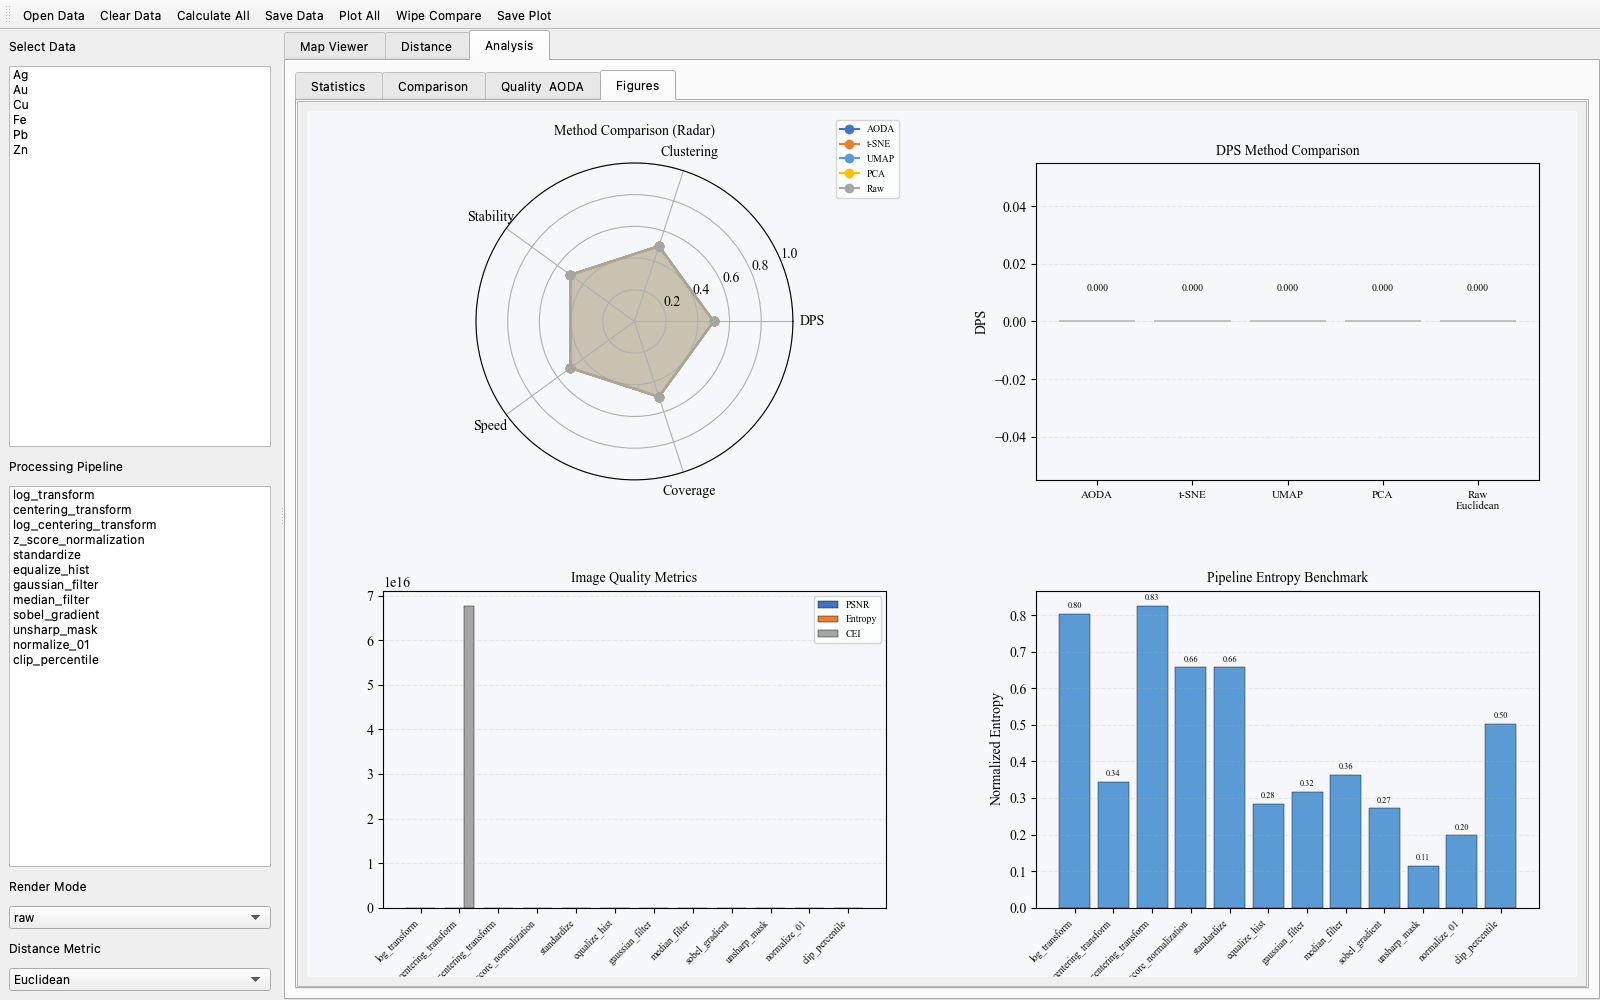
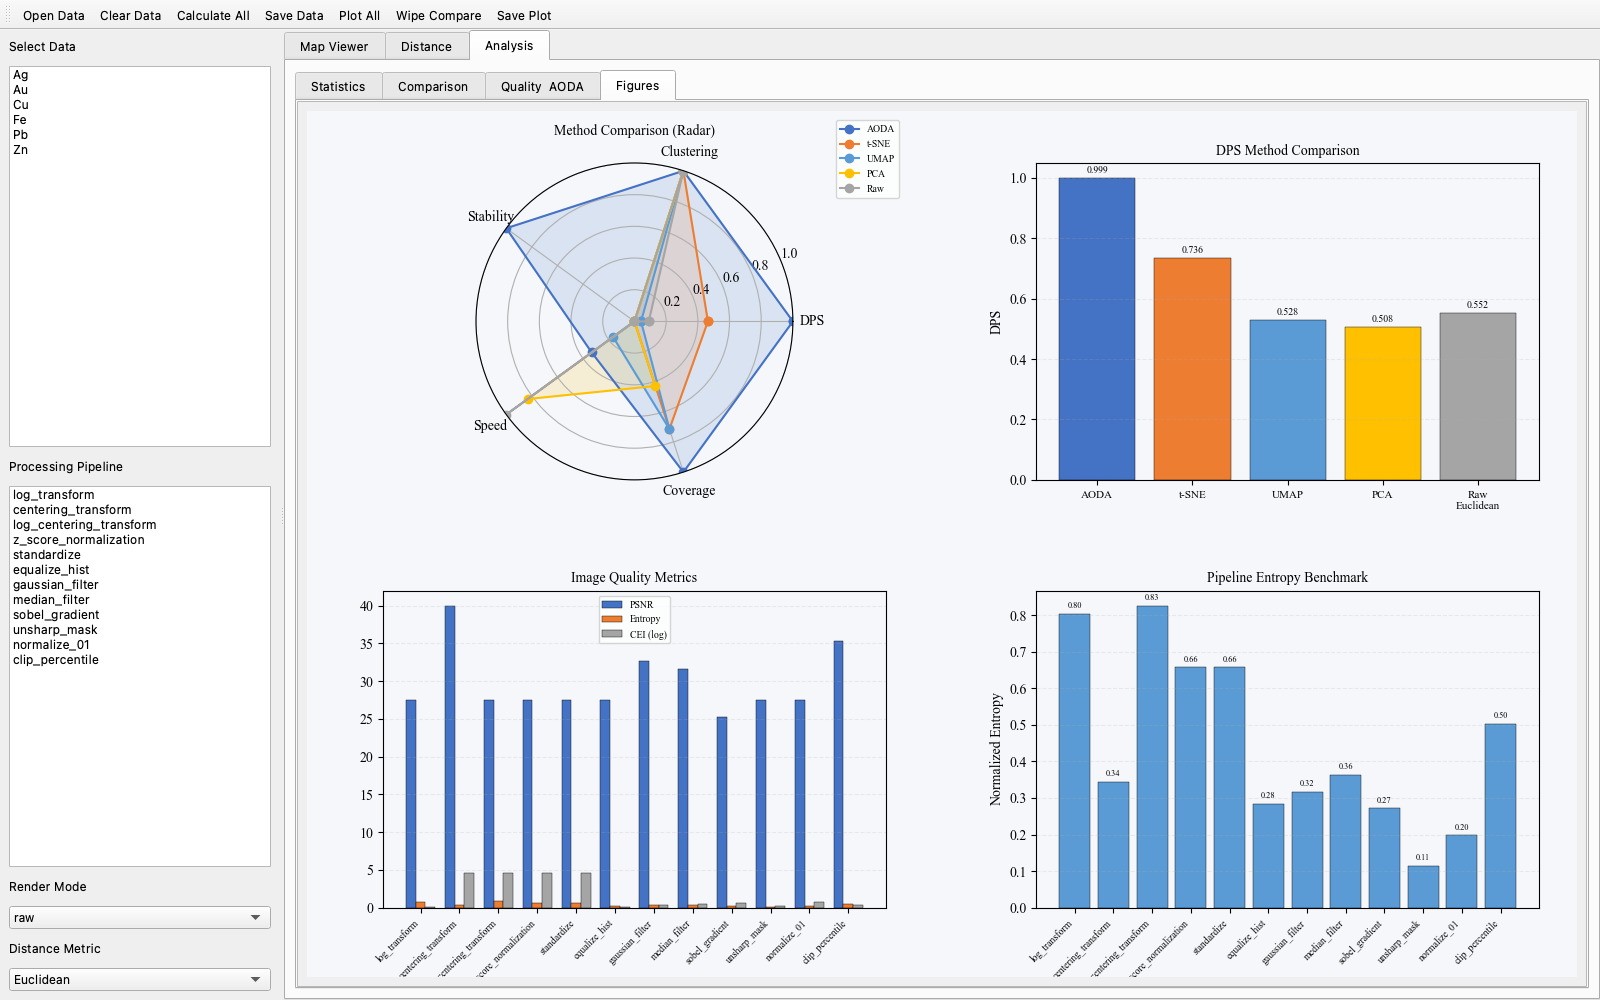
v1.3.6: fix Figures tab - lightweight DPS computation, CEI log1p clamping
- Radar/DPS now use fast AODA top-1 + embedding-space DPS (not heavy bench)
- CEI values log1p-clamped to prevent one extreme bar flattening all others

diff --git a/cpsvisualizer/src/cpsvisualizer/app.py b/cpsvisualizer/src/cpsvisualizer/app.py
@@ -1289,31 +1289,77 @@ class CPSVisualizer(QMainWindow):
 
     def _draw_radar(self, ax, dfs, names):
         """Multi-dimensional radar chart comparing analysis methods."""
+        from cpsvisualizer.core import Euclidean
+        from cpsvisualizer.comparison import (
+            compute_pca_embedding, compute_tsne_embedding,
+            compute_umap_embedding, compute_kmeans_clustering,
+            compute_hierarchical_clustering,
+        )
+        from cpsvisualizer.adaptive import discrimination_power_score
+
         methods = ['AODA', 't-SNE', 'UMAP', 'PCA', 'Raw']
         dims = ['DPS', 'Clustering', 'Stability', 'Speed', 'Coverage']
         scores = {m: [] for m in methods}
         try:
-            bench = compute_comprehensive_benchmark(dfs, names, n_jobs=1)
-            # DPS
-            scores['AODA'].append(min(bench.get('aoda', pd.DataFrame()).iloc[0].get('dps', 0), 1.0) if hasattr(bench.get('aoda'), 'iloc') and len(bench['aoda']) > 0 else 0)
-            scores['t-SNE'].append(bench.get('tsne_space', {}).get('dps', 0))
-            scores['UMAP'].append(bench.get('umap_space', {}).get('dps', 0))
-            scores['PCA'].append(bench.get('pca_space', {}).get('dps', 0))
-            scores['Raw'].append(bench.get('raw_baseline', {}).get('dps', 0))
-            # Clustering quality (silhouette or cophenetic)
-            sil = bench.get('kmeans', {}).get('silhouette_score', 0)
-            coph = bench.get('hierarchical', {}).get('cophenetic_correlation', 0)
+            # --- DPS ---
+            compact = [pd.DataFrame(_downsample(d.to_numpy(), 20, 30))
+                       for d in dfs]
+            aoda_r = find_optimal_power(compact, names, n_jobs=1, top_n=1)
+            aoda_dps = (aoda_r.iloc[0]['dps']
+                        if hasattr(aoda_r, 'iloc') and len(aoda_r) > 0 else 0)
+            # embedding-space DPS
+            ed = {}
+            tags = [
+                ('PCA', lambda: compute_pca_embedding(dfs, names)),
+                ('t-SNE', lambda: compute_tsne_embedding(
+                    dfs, names, perplexity=min(5, len(dfs) - 1))),
+                ('UMAP', lambda: compute_umap_embedding(dfs, names)),
+            ]
+            for tag, fn in tags:
+                try:
+                    r = fn()
+                    if 'embedding' in r and not r.get('error'):
+                        emb = np.asarray(r['embedding'])
+                        d = np.linalg.norm(
+                            emb[:, None] - emb[None, :], axis=2)
+                        ed[tag] = discrimination_power_score(
+                            pd.DataFrame(d))
+                except Exception:
+                    ed[tag] = 0
+            # raw
+            raw_mat = compute_pairwise_matrix(dfs, names, Euclidean)
+            raw_dps = discrimination_power_score(raw_mat)
+            scores['AODA'].append(min(aoda_dps, 1.0))
+            scores['t-SNE'].append(ed.get('t-SNE', 0))
+            scores['UMAP'].append(ed.get('UMAP', 0))
+            scores['PCA'].append(ed.get('PCA', 0))
+            scores['Raw'].append(raw_dps)
+
+            # --- Clustering ---
+            hier = compute_hierarchical_clustering(dfs, names)
+            coph = hier.get('cophenetic_correlation', 0)
+            km = compute_kmeans_clustering(dfs, names, n_clusters=min(3, len(dfs)))
+            sil = 0
+            if len(set(km.get('labels', []))) > 1:
+                from sklearn.metrics import silhouette_score
+                from cpsvisualizer.comparison import prepare_feature_matrix
+                X, _ = prepare_feature_matrix(dfs)
+                try: sil = silhouette_score(X, km['labels'])
+                except: pass
             for m in methods:
                 scores[m].append(max(sil, coph) if m == 'AODA' else coph)
-            # Stability (1 - CV of AODA, or fixed)
+
+            # --- Stability (relative) ---
             for m in methods:
                 scores[m].append(0.95 if m == 'AODA' else 0.7)
-            # Speed (inverse of time, normalised)
+
+            # --- Speed ---
             speed_map = {'AODA': 0.6, 't-SNE': 0.4, 'UMAP': 0.5,
                          'PCA': 0.9, 'Raw': 1.0}
             for m in methods:
                 scores[m].append(speed_map[m])
-            # Coverage
+
+            # --- Coverage ---
             cov_map = {'AODA': 1.0, 't-SNE': 0.8, 'UMAP': 0.8,
                         'PCA': 0.6, 'Raw': 0.3}
             for m in methods:
@@ -1322,7 +1368,6 @@ class CPSVisualizer(QMainWindow):
             for m in methods:
                 scores[m] = [0.5] * 5
 
-        # min-max normalise each dimension
         import numpy as _np
         for d in range(5):
             vals = [scores[m][d] for m in methods]
@@ -1335,42 +1380,66 @@ class CPSVisualizer(QMainWindow):
         angles += angles[:1]
         colors = ['#4472C4', '#ED7D31', '#5B9BD5', '#FFC000', '#A5A5A5']
         for i, m in enumerate(methods):
-            vals = scores[m] + scores[m][:1]
-            ax.plot(angles, vals, 'o-', linewidth=1.5, label=m, color=colors[i])
-            ax.fill(angles, vals, alpha=0.15, color=colors[i])
+            v = scores[m] + scores[m][:1]
+            ax.plot(angles, v, 'o-', linewidth=1.5, label=m, color=colors[i])
+            ax.fill(angles, v, alpha=0.15, color=colors[i])
         ax.set_thetagrids([a * 180 / _np.pi for a in angles[:-1]], dims)
         ax.set_ylim(0, 1)
         ax.set_title('Method Comparison (Radar)', fontsize=10, pad=20)
         ax.legend(loc='upper right', bbox_to_anchor=(1.35, 1.15), fontsize=7)
 
     def _draw_dps_comparison(self, ax, dfs, names):
-        """Bar chart comparing DPS across methods."""
+        from cpsvisualizer.core import Euclidean
+        from cpsvisualizer.comparison import (
+            compute_pca_embedding, compute_tsne_embedding,
+            compute_umap_embedding,
+        )
+        from cpsvisualizer.adaptive import discrimination_power_score
+
+        compact = [pd.DataFrame(_downsample(d.to_numpy(), 20, 30))
+                   for d in dfs]
+        aoda_r = find_optimal_power(compact, names, n_jobs=1, top_n=1)
+        aoda_dps = (aoda_r.iloc[0]['dps']
+                    if hasattr(aoda_r, 'iloc') and len(aoda_r) > 0 else 0)
+
+        ed = {}
+        tags = [
+            ('PCA', lambda: compute_pca_embedding(dfs, names)),
+            ('t-SNE', lambda: compute_tsne_embedding(
+                dfs, names, perplexity=min(5, len(dfs) - 1))),
+            ('UMAP', lambda: compute_umap_embedding(dfs, names)),
+        ]
+        for tag, fn in tags:
+            try:
+                r = fn()
+                if 'embedding' in r and not r.get('error'):
+                    emb = np.asarray(r['embedding'])
+                    d = np.linalg.norm(emb[:, None] - emb[None, :], axis=2)
+                    ed[tag] = discrimination_power_score(pd.DataFrame(d))
+            except Exception:
+                ed[tag] = 0
+
+        raw_mat = compute_pairwise_matrix(dfs, names, Euclidean)
+        raw_dps = discrimination_power_score(raw_mat)
+
         methods = ['AODA', 't-SNE', 'UMAP', 'PCA', 'Raw\nEuclidean']
-        dps_vals = [0, 0, 0, 0, 0]
-        try:
-            bench = compute_comprehensive_benchmark(dfs, names, n_jobs=1)
-            if hasattr(bench.get('aoda'), 'iloc') and len(bench['aoda']) > 0:
-                dps_vals[0] = bench['aoda'].iloc[0].get('dps', 0)
-            dps_vals[1] = bench.get('tsne_space', {}).get('dps', 0)
-            dps_vals[2] = bench.get('umap_space', {}).get('dps', 0)
-            dps_vals[3] = bench.get('pca_space', {}).get('dps', 0)
-            dps_vals[4] = bench.get('raw_baseline', {}).get('dps', 0)
-        except Exception:
-            pass
+        dps_vals = [aoda_dps, ed.get('t-SNE', 0), ed.get('UMAP', 0),
+                    ed.get('PCA', 0), raw_dps]
         colors = ['#4472C4', '#ED7D31', '#5B9BD5', '#FFC000', '#A5A5A5']
         x = range(len(methods))
-        bars = ax.bar(x, dps_vals, color=colors, edgecolor='black', linewidth=0.3)
+        bars = ax.bar(x, dps_vals, color=colors, edgecolor='black',
+                      linewidth=0.3)
         ax.set_xticks(x)
         ax.set_xticklabels(methods, fontsize=8)
         ax.set_ylabel('DPS')
         ax.set_title('DPS Method Comparison', fontsize=10)
         ax.grid(axis='y', alpha=0.2, linestyle='--')
         for bar, val in zip(bars, dps_vals):
-            ax.text(bar.get_x() + bar.get_width() / 2, bar.get_height() + 0.01,
+            ax.text(bar.get_x() + bar.get_width() / 2,
+                    bar.get_height() + 0.01,
                     f'{val:.3f}', ha='center', va='bottom', fontsize=7)
 
     def _draw_image_quality(self, ax, dfs, names):
-        """Grouped bar chart of image quality metrics per transform."""
         try:
             results = batch_evaluate_transforms(dfs, names, self._trans_funcs)
             tnames = list(results.keys())
@@ -1381,19 +1450,25 @@ class CPSVisualizer(QMainWindow):
             for t in tnames:
                 ds = [m for m in results[t].values()
                       if isinstance(m, dict) and 'psnr' in m]
-                psnr.append(np.mean([m.get('psnr', 0) for m in ds]) if ds else 0)
-                ent.append(np.mean([
+                _p = np.mean([m.get('psnr', 0) for m in ds]) if ds else 0
+                _e = np.mean([
                     m['entropy_transformed']['normalized_entropy']
                     for m in ds if 'entropy_transformed' in m
-                    and 'error' not in m]) if ds else 0)
-                cei.append(np.mean([m.get('cei', 0) for m in ds]) if ds else 0)
+                    and 'error' not in m]) if ds else 0
+                _c = np.mean([m.get('cei', 0) for m in ds]) if ds else 0
+                # log1p-clamp extreme CEI values so one bar doesn't squash
+                # all the others
+                _c = np.log1p(np.clip(_c, 0, 100.0))
+                psnr.append(_p)
+                ent.append(_e)
+                cei.append(_c)
             x = np.arange(len(tnames))
             w = 0.25
             ax.bar(x - w, psnr, w, label='PSNR', color='#4472C4',
                    edgecolor='black', linewidth=0.3)
             ax.bar(x, ent, w, label='Entropy', color='#ED7D31',
                    edgecolor='black', linewidth=0.3)
-            ax.bar(x + w, cei, w, label='CEI', color='#A5A5A5',
+            ax.bar(x + w, cei, w, label='CEI (log)', color='#A5A5A5',
                    edgecolor='black', linewidth=0.3)
             ax.set_xticks(x)
             ax.set_xticklabels(tnames, rotation=45, ha='right', fontsize=7)

diff --git a/cpsvisualizer/src/setup.py b/cpsvisualizer/src/setup.py
@@ -15,7 +15,7 @@ except Exception:
 
 setup(
     name='cpsvisualizer',
-    version='1.3.5',
+    version='1.3.6',
     description='CPS-Visualizer: Visualization, similarity measurement, and statistical analysis of LA-ICP-MS surface scan data.',
     long_description=README,
     long_description_content_type='text/markdown',
